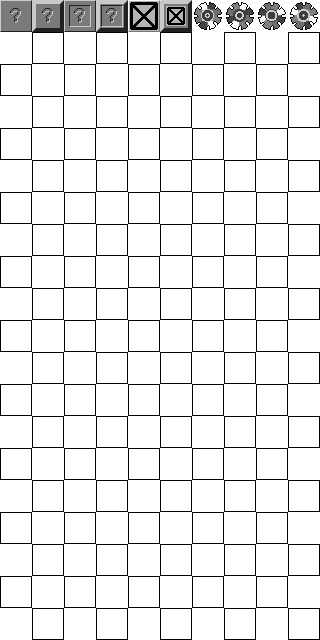
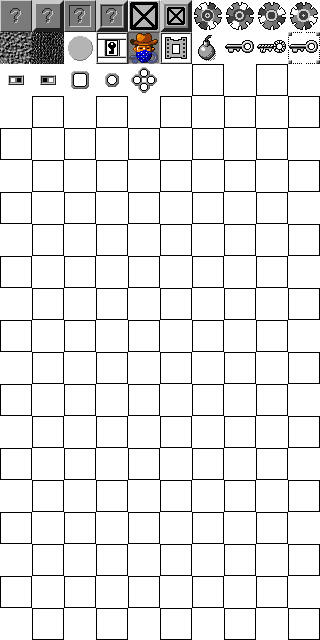
add more custom graphics

Changed region(s): [[0.0, 0.0312, 1.0, 0.1562]]

diff --git a/src/hybrid_cc/gfx/gfx_provider.py b/src/hybrid_cc/gfx/gfx_provider.py
@@ -6,9 +6,14 @@ from PIL import Image
 from hybrid_cc.gfx.gfx_utils import colorize
 from hybrid_cc.gfx.label_maker import LabelMaker
 from hybrid_cc.shared import Id
+from hybrid_cc.shared.button_rule import ButtonRule
 from hybrid_cc.shared.color import Color
+from hybrid_cc.shared.key_rule import KeyRule
+from hybrid_cc.shared.thief_rule import ThiefRule
 from hybrid_cc.shared.trap_rule import TrapRule
 from hybrid_cc.shared.trick_wall_rule import TrickWallRule
+
+DEFAULT_COLOR = "white"
 
 
 class GfxProvider:
@@ -38,7 +43,7 @@ class GfxProvider:
         return [self.cc2(name) for name in
                 [f"{base}_{i}" if i > 0 else base for i in range(n)]]
 
-    def process(self, elem, default_color, base_images):
+    def process(self, elem, base_images, *, default_color=None):
         color = elem.color or default_color
         memo_name = hash(elem)
         if memo_name in self.memoized:
@@ -49,12 +54,47 @@ class GfxProvider:
 
         processed_images = [
             colorize(img, color) for img
-            in base_images]
+            in base_images] if color else base_images
+
+        color = color or DEFAULT_COLOR
 
         if elem.id == Id.TRAP and elem.channel is not None:
             label = str(elem.channel)
             self.label_maker.position = 9  # bottom right
-            self.label_maker.text_color = elem.color.name.lower()
+            self.label_maker.text_color = color.name.lower()
+            processed_images = [
+                self.label_maker.apply(img, label)
+                for img in processed_images
+            ]
+        elif (elem.id in (Id.POP_UP_WALL, Id.STEPPING_STONE)
+              and elem.count and elem.count > 1):
+            label = str(elem.count)
+            self.label_maker.position = 9  # bottom right
+            self.label_maker.text_color = color
+            processed_images = [
+                self.label_maker.apply(img, label)
+                for img in processed_images
+            ]
+        elif elem.id in (Id.DOOR, Id.SOCKET) and elem.count and elem.count > 1:
+            label = str(elem.count)
+            self.label_maker.position = 7  # lower left
+            self.label_maker.text_color = color
+            processed_images = [
+                self.label_maker.apply(img, label)
+                for img in processed_images
+            ]
+        elif elem.id in (Id.KEY, Id.TOOL) and elem.count and elem.count > 1:
+            label = str(elem.count)
+            self.label_maker.position = 3  # upper right
+            self.label_maker.text_color = color
+            processed_images = [
+                self.label_maker.apply(img, label)
+                for img in processed_images
+            ]
+        elif elem.id in (Id.BUTTON,) and elem.channel:
+            label = str(elem.channel)
+            self.label_maker.position = 7  # lower left
+            self.label_maker.text_color = color
             processed_images = [
                 self.label_maker.apply(img, label)
                 for img in processed_images
@@ -68,14 +108,14 @@ class GfxProvider:
         return result
 
     def floor(self, elem):
-        return self.process(elem, Color.GREY, self.cc2("FLOOR"))
+        return self.process(elem, self.cc2("FLOOR"), default_color=Color.GREY)
 
     def wall(self, elem):
-        return self.process(elem, Color.GREY, self.cc2("WALL"))
+        return self.process(elem, self.cc2("WALL"), default_color=Color.GREY)
 
     def exit(self, elem):
         base = self.cc2_series("EXIT", 4)
-        return self.process(elem, Color.BLUE, base)
+        return self.process(elem, base, default_color=Color.BLUE)
 
     def water(self, elem):
         return self.cc2_series("WATER", 4)
@@ -93,10 +133,11 @@ class GfxProvider:
             TrickWallRule.INVISIBLE_BECOMES_WALL
         ].index(elem.rule)
         base = self.custom_tile(index)
-        return self.process(elem, Color.GREY, base)
+        return self.process(elem, base, default_color=Color.GREY)
 
     def dirt(self, elem):
-        return self.process(elem, Color.GREY, self.cc2("DIRT"))
+        return self.process(elem, self.custom_tile(10),
+                            default_color=Color.GREY)
 
     def ice(self, elem):
         return self.cc2("ICE")
@@ -124,15 +165,85 @@ class GfxProvider:
                 frames.append(new_frame)
         else:
             frames = self.cc2_series(f"FORCE_RANDOM", 8)
-        return self.process(elem, Color.GREEN, frames)
+        return self.process(elem, frames, default_color=Color.GREY)
 
     def teleport(self, elem):
         frames = [self.custom_tile(i) for i in range(6, 10)]
-        return self.process(elem, Color.BLUE, frames)
+        return self.process(elem, frames, default_color=Color.BLUE)
 
     def trap(self, elem):
         name = "TRAP_SHUT" if elem.rule == TrapRule.SHUT else "TRAP"
-        return self.process(elem, Color.TAN, self.cc2(name))
+        return self.process(elem, self.cc2(name), default_color=Color.TAN)
 
     def gravel(self, elem):
-        return self.cc2("GRAVEL")
+        return self.custom_tile(11)
+
+    def pop_up_wall(self, elem):
+        return self.process(elem, self.cc2("POP_UP_WALL"),
+                            default_color=Color.GREY)
+
+    def stepping_stone(self, elem):
+        top = self.custom_tile(12)
+        bottom = self.fire(elem) if elem.rule == "fire" else self.water(elem)
+        combined = []
+        for frame in bottom:
+            copy = frame.copy()
+            copy.paste(top, (0, 0), top)
+            combined.append(copy)
+        return self.process(elem, combined)
+
+    def hint(self, elem):
+        return self.cc2("HINT")
+
+    def cloner(self, elem):
+        cloner = self.cc2("CLONER").copy()
+        d = elem.direction
+        processed = self.process(elem, cloner, default_color=Color.RED)
+        if d:
+            arrow = self.cc2(f"CLONER_ARROW_{d.name}")
+            processed.paste(arrow, (0, 0), arrow)
+        return processed
+
+    def door(self, elem):
+        return self.process(elem, self.custom_tile(13),
+                            default_color=Color.GREY)
+
+    def thief(self, elem):
+        if elem.rule == ThiefRule.KEYS:
+            return self.custom_tile(14)
+        return self.cc2("THIEF")
+
+    def socket(self, elem):
+        return self.process(elem, self.custom_tile(15),
+                            default_color=Color.GREY)
+
+    def bomb(self, elem):
+        return self.process(elem, self.custom_tile(16),
+                            default_color=Color.RED)
+
+    def key(self, elem):
+        index = {
+            KeyRule.DEFAULT: 17,
+            KeyRule.FRAGILE: 18,
+            KeyRule.ACTING_DIRT: 19,
+        }[elem.rule]
+        return self.process(elem, self.custom_tile(index))
+
+    def tool(self, elem):
+        name = ["FLIPPERS", "FIRE_BOOTS", "SKATES", "SUCTION_BOOTS"][
+            elem.rule.value - 1]
+        return self.process(elem, self.cc2(name))
+
+    def button(self, elem):
+        if elem.rule == ButtonRule.TOGGLE:
+            frames = [self.custom_tile(i) for i in range(20, 22)]
+            return self.process(elem, frames, default_color=Color.GREY)
+        elif elem.rule == ButtonRule.HOLD_ALL:
+            return self.process(elem, self.custom_tile(22),
+                                default_color=Color.GREY)
+        elif elem.rule == ButtonRule.HOLD_ONE:
+            return self.process(elem, self.custom_tile(23),
+                                default_color=Color.GREY)
+        elif elem.rule == ButtonRule.DPAD:
+            return self.process(elem, self.custom_tile(24),
+                                default_color=Color.GREY)

diff --git a/utils/gfx_provider_demo.py b/utils/gfx_provider_demo.py
@@ -7,8 +7,12 @@ from PIL import ImageTk
 from hybrid_cc.gfx.gfx_provider import GfxProvider
 from hybrid_cc.levelset import Elem
 from hybrid_cc.shared import Id, Direction
+from hybrid_cc.shared.button_rule import ButtonRule
 from hybrid_cc.shared.color import Color
 from hybrid_cc.shared.force_rule import ForceRule
+from hybrid_cc.shared.key_rule import KeyRule
+from hybrid_cc.shared.thief_rule import ThiefRule
+from hybrid_cc.shared.tool_rule import ToolRule
 from hybrid_cc.shared.trap_rule import TrapRule
 from hybrid_cc.shared.trick_wall_rule import TrickWallRule
 
@@ -29,23 +33,89 @@ for r in TrickWallRule:
 for d in "NESW":
     ELIB[f"FORCE_{d}"] = [Elem(Id.FORCE, direction=Direction[d], color=c) for c
                           in Color]
-
 ELIB.update(
     {
-        "FORCE_RANDOM": [Elem(Id.FORCE, rule=ForceRule.RANDOM, color=c) for c in
+        "FORCE_RANDOM": [Elem(Id.FORCE, rule=ForceRule.RANDOM, color=c) for
+                         c in
                          Color],
         "TELEPORT": [Elem(Id.TELEPORT, color=c) for c in Color],
         "TRAP_OPEN": [Elem(Id.TRAP, color=c, rule=TrapRule.OPEN) for c in
                       Color],
         "TRAP_SHUT": [Elem(Id.TRAP, color=c, rule=TrapRule.SHUT) for c in
                       Color],
-        "TRAP_OPEN_1": [Elem(Id.TRAP, color=c, rule=TrapRule.OPEN, channel=1)
-                        for c in
-                        Color],
+        "TRAP_OPEN_1": [
+            Elem(Id.TRAP, color=c, rule=TrapRule.OPEN, channel=1)
+            for c in
+            Color],
         "TRAP_SHUT_128": [
             Elem(Id.TRAP, color=c, rule=TrapRule.SHUT, channel=128) for c in
             Color],
-        "GRAVEL": [Elem(Id.GRAVEL)]
+        "GRAVEL": [Elem(Id.GRAVEL)],
+        "POP_UP_WALL": [Elem(Id.POP_UP_WALL, color=c) for c in Color],
+        "POP_UP_WALL_COUNT": [Elem(Id.POP_UP_WALL, color=c, count=2) for c
+                              in
+                              Color],
+        "STEPPING_STONE": [Elem(Id.STEPPING_STONE, rule="fire"),
+                           Elem(Id.STEPPING_STONE, rule="fire", count=2),
+                           Elem(Id.STEPPING_STONE, rule="water"),
+                           Elem(Id.STEPPING_STONE, rule="water", count=2)],
+        "HINT": [Elem(Id.HINT)],
+        "CLONER_N": [Elem(Id.CLONER, color=c, direction=Direction.N) for c
+                     in
+                     Color],
+        "CLONER_E": [Elem(Id.CLONER, color=c, direction=Direction.E) for c
+                     in
+                     Color],
+        "CLONER_S": [Elem(Id.CLONER, color=c, direction=Direction.S) for c
+                     in
+                     Color],
+        "CLONER_W": [Elem(Id.CLONER, color=c, direction=Direction.W) for c
+                     in
+                     Color],
+        "DOOR": [Elem(Id.DOOR, color=c) for c in Color],
+        "DOOR_COUNT": [Elem(Id.DOOR, color=c, count=99) for c in Color],
+        "THIEF": [Elem(Id.THIEF, rule=ThiefRule.TOOLS),
+                  Elem(Id.THIEF, rule=ThiefRule.KEYS)],
+        "SOCKET": [Elem(Id.SOCKET, color=c) for c in Color],
+        "SOCKET_COUNT": [Elem(Id.SOCKET, color=c, count=99) for c in Color],
+        "BOMB": [Elem(Id.BOMB, color=c) for c in Color],
+        "KEY_DEFAULT": [Elem(Id.KEY, color=c, rule=KeyRule.DEFAULT) for c in
+                        Color],
+        "KEY_DEFAULT_COUNT": [
+            Elem(Id.KEY, color=c, rule=KeyRule.DEFAULT, count=9) for c in
+            Color],
+        "KEY_FRAGILE": [Elem(Id.KEY, color=c, rule=KeyRule.FRAGILE) for c in
+                        Color],
+        "KEY_FRAGILE_COUNT": [
+            Elem(Id.KEY, color=c, rule=KeyRule.FRAGILE, count=32) for c in
+            Color],
+        "KEY_ACTING_DIRT": [Elem(Id.KEY, color=c, rule=KeyRule.ACTING_DIRT)
+                            for c in Color],
+        "KEY_ACTING_DIRT_COUNT": [
+            Elem(Id.KEY, color=c, rule=KeyRule.ACTING_DIRT, count=150) for
+            c in Color],
+        "TOOL": [Elem(Id.TOOL, rule=r) for r in ToolRule] + [
+            Elem(Id.TOOL, rule=r, count=49) for r in ToolRule],
+        "TOGGLE_BUTTON": [Elem(Id.BUTTON, rule=ButtonRule.TOGGLE, color=c) for c
+                          in Color],
+        "TOGGLE_BUTTON_CHANNEL": [
+            Elem(Id.BUTTON, rule=ButtonRule.TOGGLE, channel="HI", color=c) for c
+            in Color],
+        "HOLD_ONE_BUTTON": [Elem(Id.BUTTON, rule=ButtonRule.HOLD_ONE, color=c)
+                            for c in Color],
+        "HOLD_ONE_BUTTON_CHANNEL": [
+            Elem(Id.BUTTON, rule=ButtonRule.HOLD_ONE, color=c, channel="P51")
+            for c in Color],
+        "HOLD_ALL_BUTTON": [Elem(Id.BUTTON, rule=ButtonRule.HOLD_ALL, color=c)
+                            for c in Color],
+        "HOLD_ALL_BUTTON_CHANNEL": [
+            Elem(Id.BUTTON, rule=ButtonRule.HOLD_ALL, color=c, channel="POOP")
+            for c in Color],
+        "DPAD_BUTTON": [Elem(Id.BUTTON, rule=ButtonRule.DPAD, color=c) for c in
+                        Color],
+        "DPAD_BUTTON_CHANNEL": [
+            Elem(Id.BUTTON, rule=ButtonRule.DPAD, color=c, channel=841) for c in
+            Color],
     }
 )
 

diff --git a/src/hybrid_cc/shared/button_rule.py b/src/hybrid_cc/shared/button_rule.py
@@ -1,0 +1,8 @@
+from enum import Enum
+
+
+class ButtonRule(Enum):
+    TOGGLE = 1
+    HOLD_ONE = 2
+    HOLD_ALL = 3
+    DPAD = 4

diff --git a/src/hybrid_cc/shared/tool_rule.py b/src/hybrid_cc/shared/tool_rule.py
@@ -1,0 +1,8 @@
+from enum import Enum
+
+
+class ToolRule(Enum):
+    WATER = 1
+    FIRE = 2
+    ICE = 3
+    FORCE = 4

diff --git a/src/hybrid_cc/shared/key_rule.py b/src/hybrid_cc/shared/key_rule.py
@@ -1,0 +1,7 @@
+from enum import Enum
+
+
+class KeyRule(Enum):
+    DEFAULT = 1
+    FRAGILE = 2
+    ACTING_DIRT = 3

diff --git a/src/hybrid_cc/shared/thief_rule.py b/src/hybrid_cc/shared/thief_rule.py
@@ -1,0 +1,6 @@
+from enum import Enum
+
+
+class ThiefRule(Enum):
+    TOOLS = 1
+    KEYS = 2
